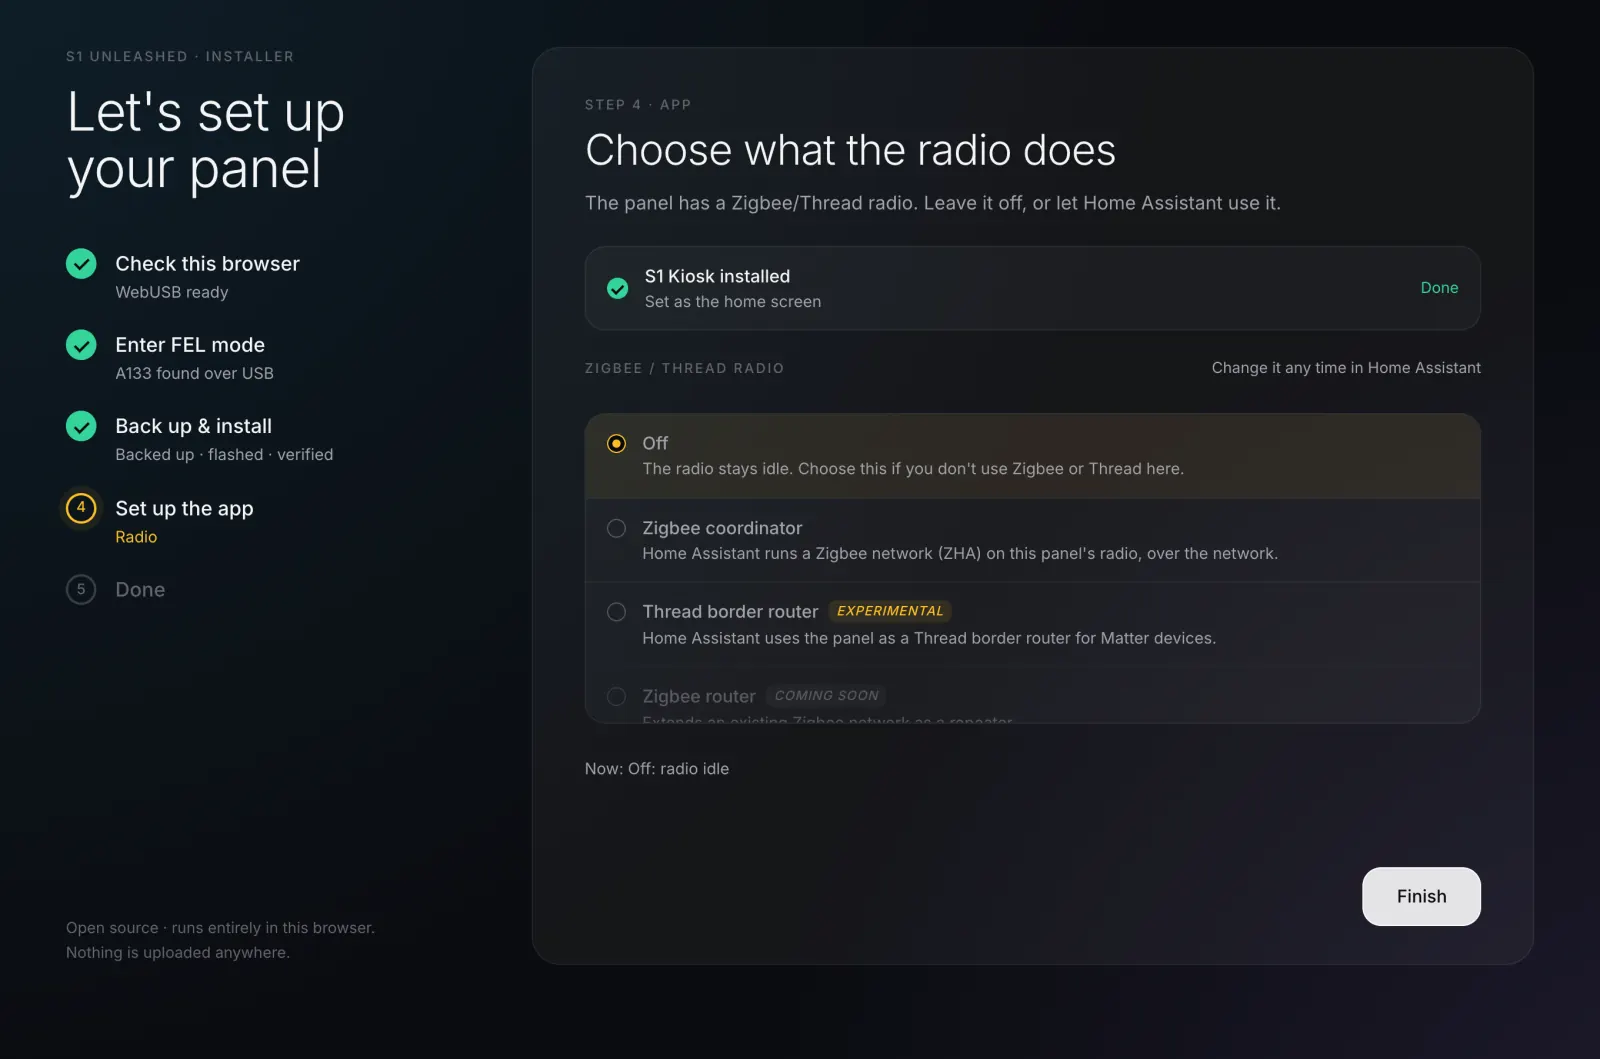
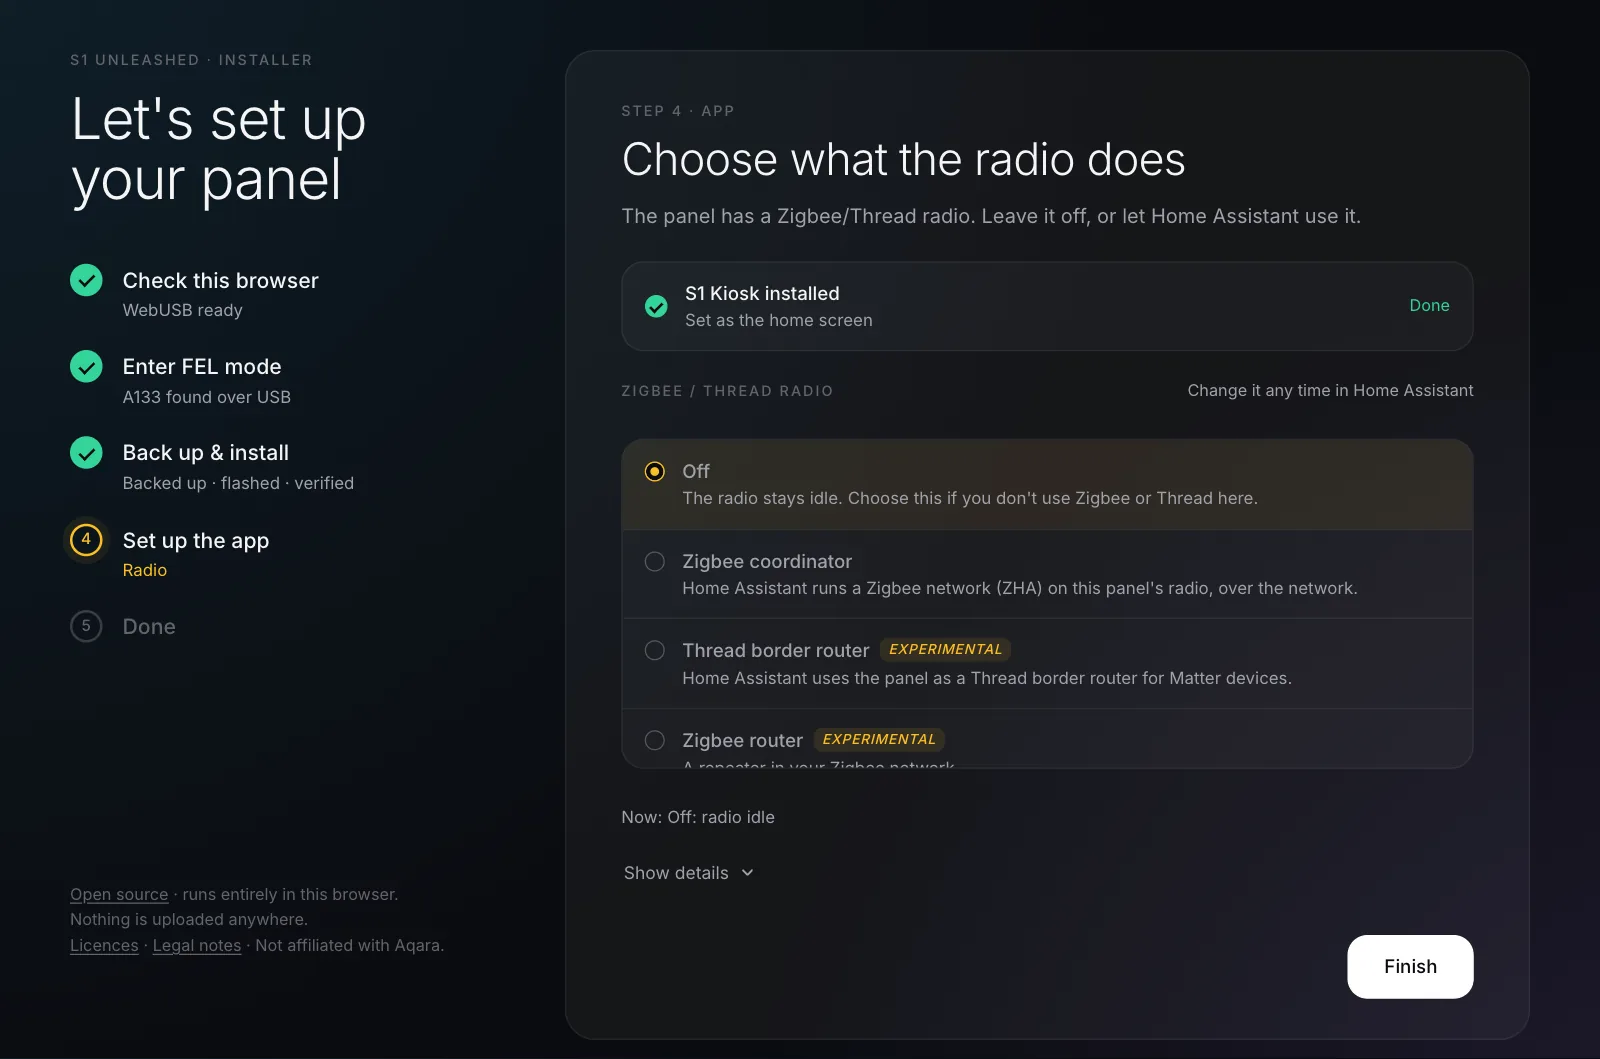
Installer: the router roles are experimental options, not 'coming soon' (as on the panel); radio step image re-captured

diff --git a/web/src/app/ui.ts b/web/src/app/ui.ts
@@ -84,6 +84,9 @@ function demoSetup(): ByteStream {
         { id: 'off', label: 'Off', detail: 'The radio stays idle. Choose this if you don\'t use Zigbee or Thread here.' },
         { id: 'zigbee_tcp', label: 'Zigbee coordinator', detail: 'Home Assistant runs a Zigbee network (ZHA) on this panel\'s radio, over the network.' },
         { id: 'thread', label: 'Thread border router', detail: 'Home Assistant uses the panel as a Thread border router for Matter devices.', experimental: true },
+        // the app's repeater roles (RadioStep.OPTIONS), experimental like there
+        { id: 'zigbee_router', label: 'Zigbee router', detail: 'A repeater in your Zigbee network.', experimental: true, repeater: true },
+        { id: 'thread_router', label: 'Thread router', detail: 'A repeater in your Thread network.', experimental: true, repeater: true },
       ],
     },
   };
@@ -133,12 +136,6 @@ function demoImprov(fail: boolean): ByteStream {
     },
   };
 }
-
-/** Radio roles that aren't ready yet: listed, not selectable (docs/radio.md). */
-const COMING_SOON = [
-  { id: 'zigbee_router', label: 'Zigbee router', detail: 'Extends an existing Zigbee network as a repeater.' },
-  { id: 'thread_router', label: 'Thread router', detail: 'Extends an existing Thread network as a repeater.' },
-];
 
 const BARS: Bar[] = ['backup', 'patch', 'flash', 'verify'];
 const TITLE = 'S1 Unleashed Installer';
@@ -846,9 +843,8 @@ class Installer {
     const s = c.state!;
     let chosen = s.radio.mode;
     list.innerHTML = '';
-    const offered = new Set(s.radio.options.map((o) => o.id));
-    const soon = COMING_SOON.filter((o) => !offered.has(o.id)).map((o) => ({ ...o, experimental: false, soon: true }));
-    for (const o of [...s.radio.options.map((x) => ({ ...x, experimental: !!x.experimental, soon: false })), ...soon]) {
+    // Every role the app offers (RadioStep.OPTIONS on the panel), routers included: none is "coming soon".
+    for (const o of s.radio.options) {
       const row = document.createElement('button');
       row.type = 'button';
       row.className = 'opt';
@@ -856,9 +852,8 @@ class Installer {
       row.innerHTML = '<i class="rad"></i><span class="t"><b></b><span></span></span>';
       row.querySelector('b')!.textContent = o.label;
       if (o.experimental) row.querySelector('b')!.insertAdjacentHTML('beforeend', '<em class="tag">Experimental</em>');
-      if (o.soon) row.querySelector('b')!.insertAdjacentHTML('beforeend', '<em class="tag soon">Coming soon</em>');
       row.querySelector('.t > span')!.textContent = o.detail;
-      const usable = !o.soon && (s.radio.helper || o.id === 'off');
+      const usable = s.radio.helper || o.id === 'off';
       row.setAttribute('aria-disabled', String(!usable));
       row.setAttribute('aria-checked', String(o.id === chosen));
       row.onclick = () => {

diff --git a/web/src/style.css b/web/src/style.css
@@ -384,7 +384,6 @@ code{font-family:var(--mono);font-size:12.5px}
 .opt[aria-disabled=true]{opacity:.45;cursor:default}
 
 #ha-block,#radio-block{margin-top:22px}
-.opt .tag.soon{color:var(--mu);background:rgba(255,255,255,.07)}
 .applog{margin-top:20px;display:flex;flex-direction:column;gap:20px}
 
 /* radio next steps */
